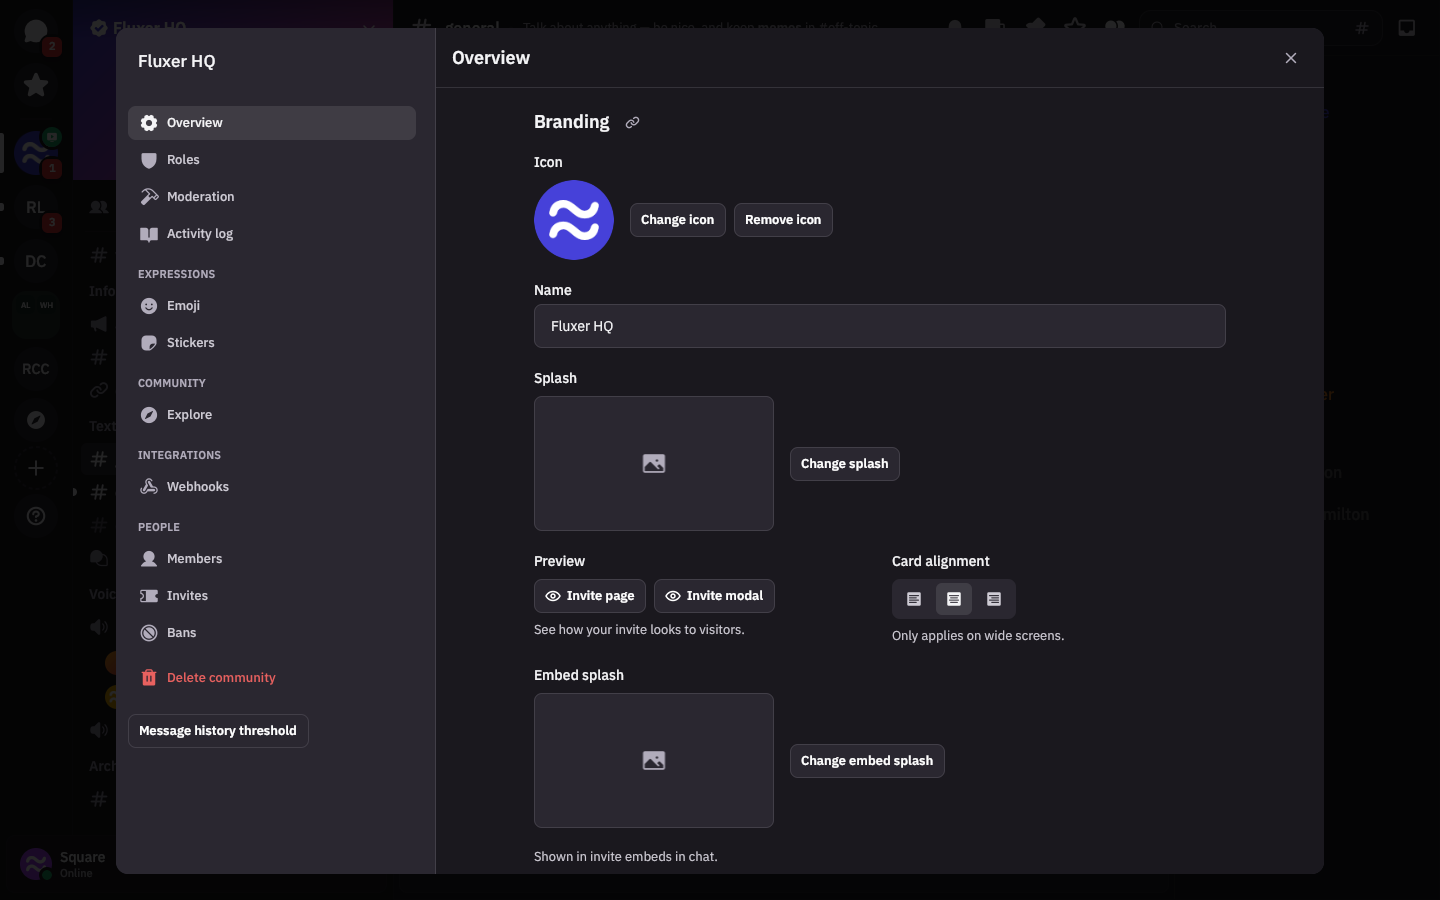
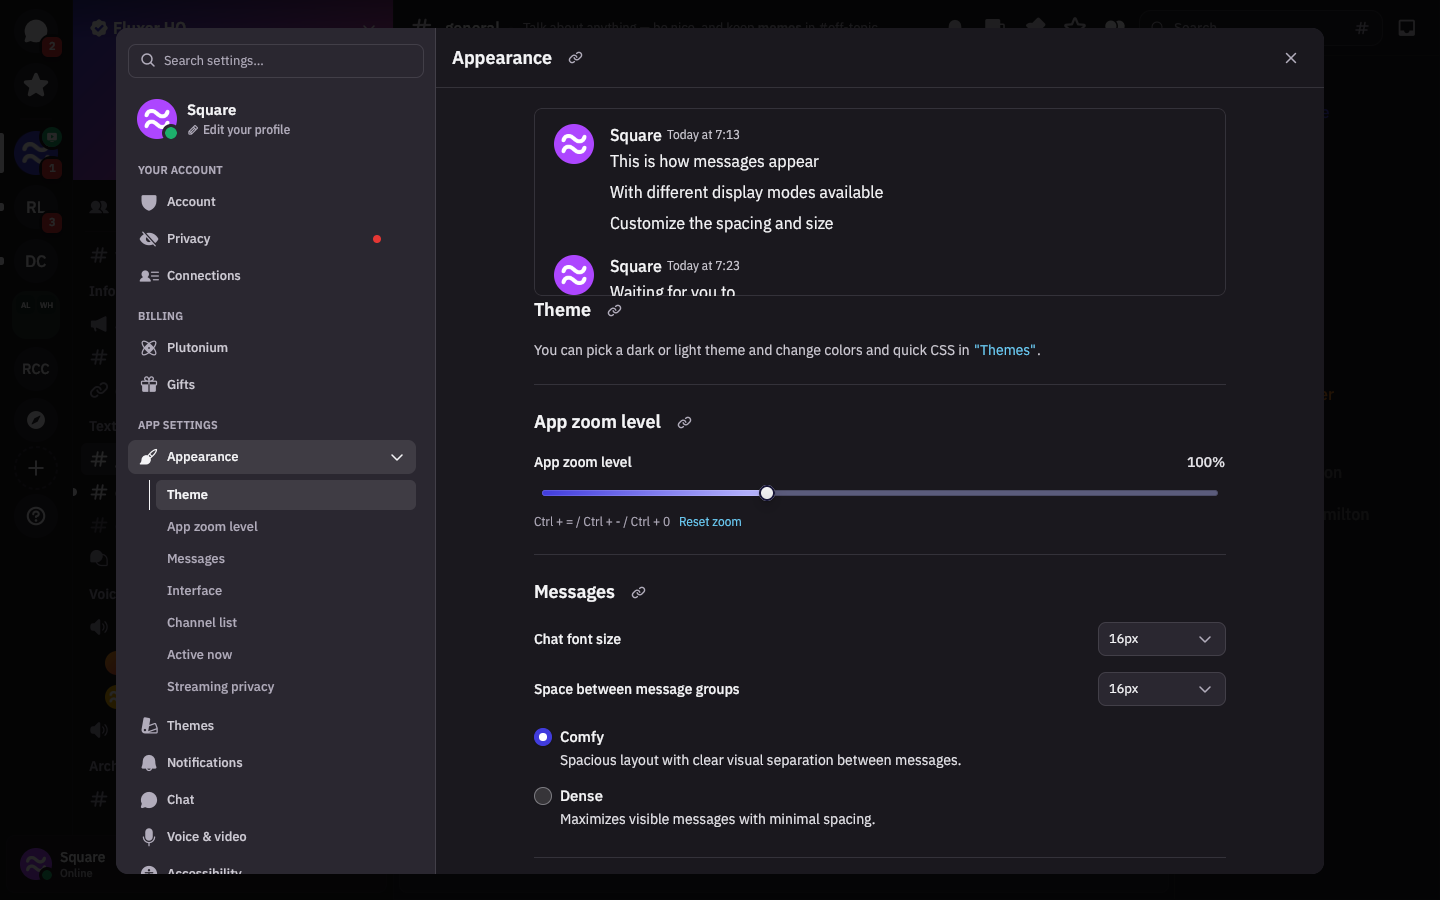
README: refresh the screenshots; the settings shot shows the sidebar's section list

diff --git a/README.md b/README.md
@@ -35,7 +35,7 @@ Fluxer's look and behaviour, screen for screen, without a browser engine.
     <td><img src="docs/screenshots/embeds.png" alt="Rich and YouTube embeds"><br><sub><b>Embeds</b>: rich embeds, YouTube and GIFs</sub></td>
   </tr>
   <tr>
-    <td><img src="docs/screenshots/settings.png" alt="Community settings"><br><sub><b>Community settings</b>: roles, moderation, expressions, members</sub></td>
+    <td><img src="docs/screenshots/settings.png" alt="User settings with the open tab's sections in the sidebar"><br><sub><b>Settings</b>: the open tab's sections listed in the sidebar, following the scroll</sub></td>
     <td><img src="docs/screenshots/switcher.png" alt="Quick switcher"><br><sub><b>Quick switcher</b>: <kbd>Ctrl</kbd> + <kbd>K</kbd> across people, channels and communities</sub></td>
   </tr>
 </table>
